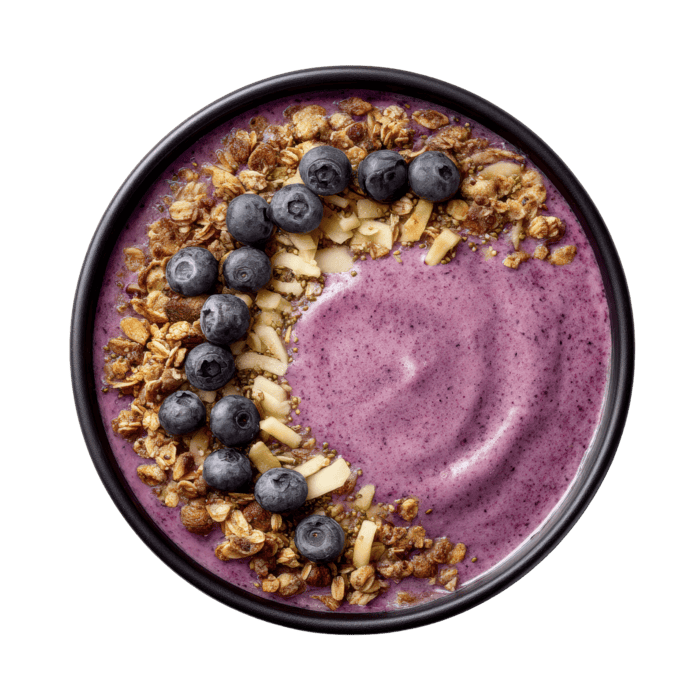
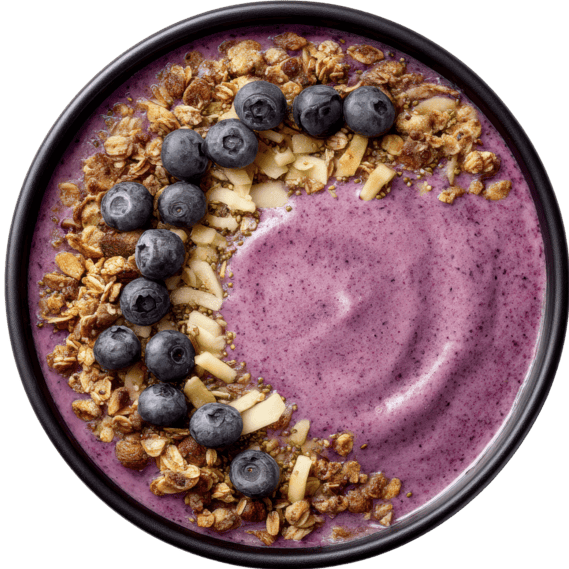
scale commit

diff --git a/next.config.ts b/next.config.ts
@@ -1,13 +1,5 @@
 import type { NextConfig } from "next";
 
-const nextConfig: NextConfig = {
-  images: {
-    remotePatterns: [
-      { protocol: "https", hostname: "images.unsplash.com" },
-      { protocol: "https", hostname: "images.pexels.com" },
-      { protocol: "https", hostname: "cdn.pixabay.com" },
-    ],
-  },
-};
+const nextConfig: NextConfig = {};
 
 export default nextConfig;

diff --git a/src/components/CartPanel.tsx b/src/components/CartPanel.tsx
@@ -45,7 +45,7 @@ export default function CartPanel() {
           {/* Sample Item */}
           <div className="flex gap-4 items-center group">
             <div className="relative w-20 h-20 rounded-2xl overflow-hidden bg-gray-100">
-              <Image src="https://images.unsplash.com/photo-1494597564530-871f2b93ac55?q=80&w=200&auto=format&fit=crop" alt="Bowl" fill className="object-cover" />
+              <Image src="/mango-bowl.png" alt="Bowl" fill className="object-cover" />
             </div>
             <div className="flex-1">
               <h3 className="font-bold">Mango Sunrise</h3>